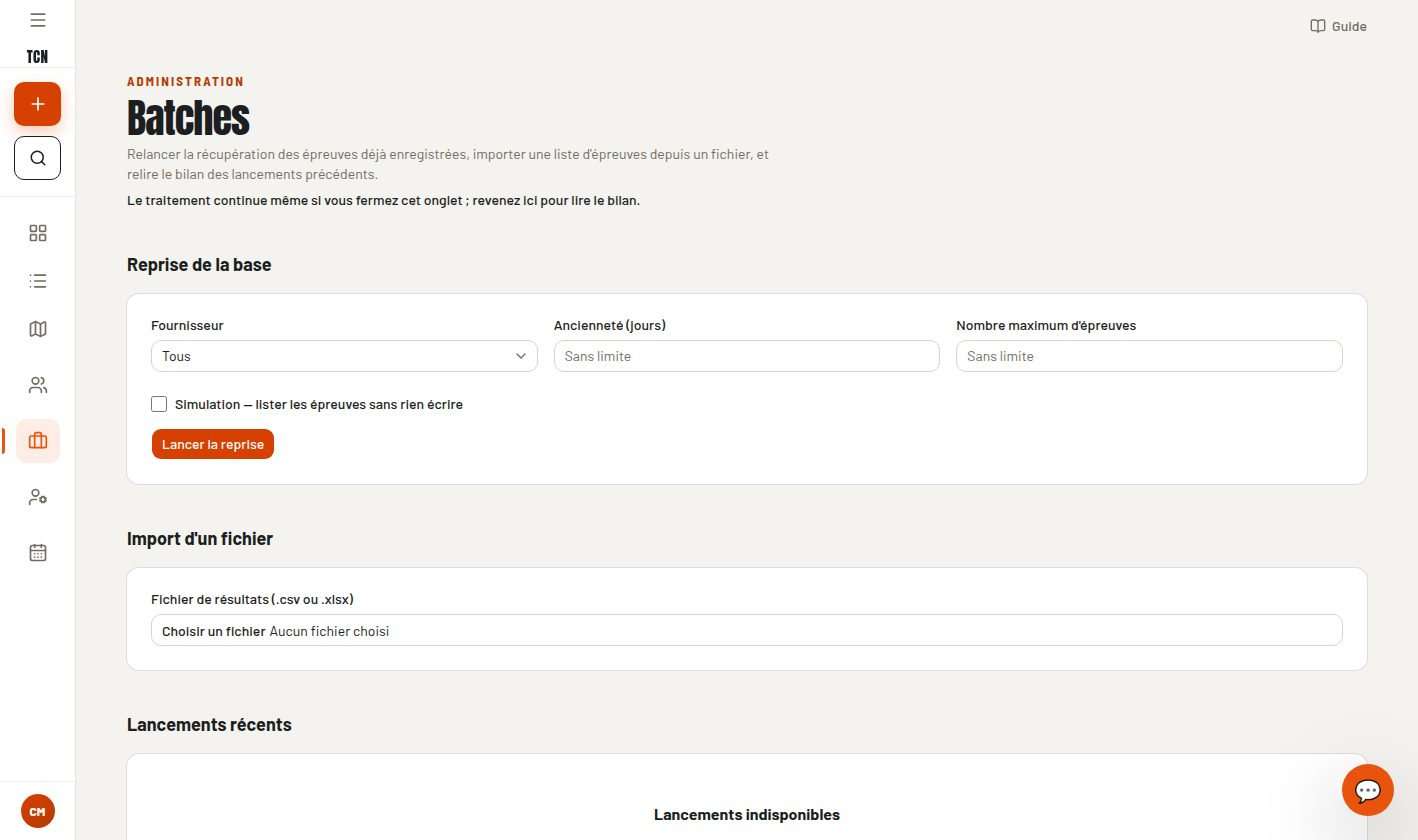
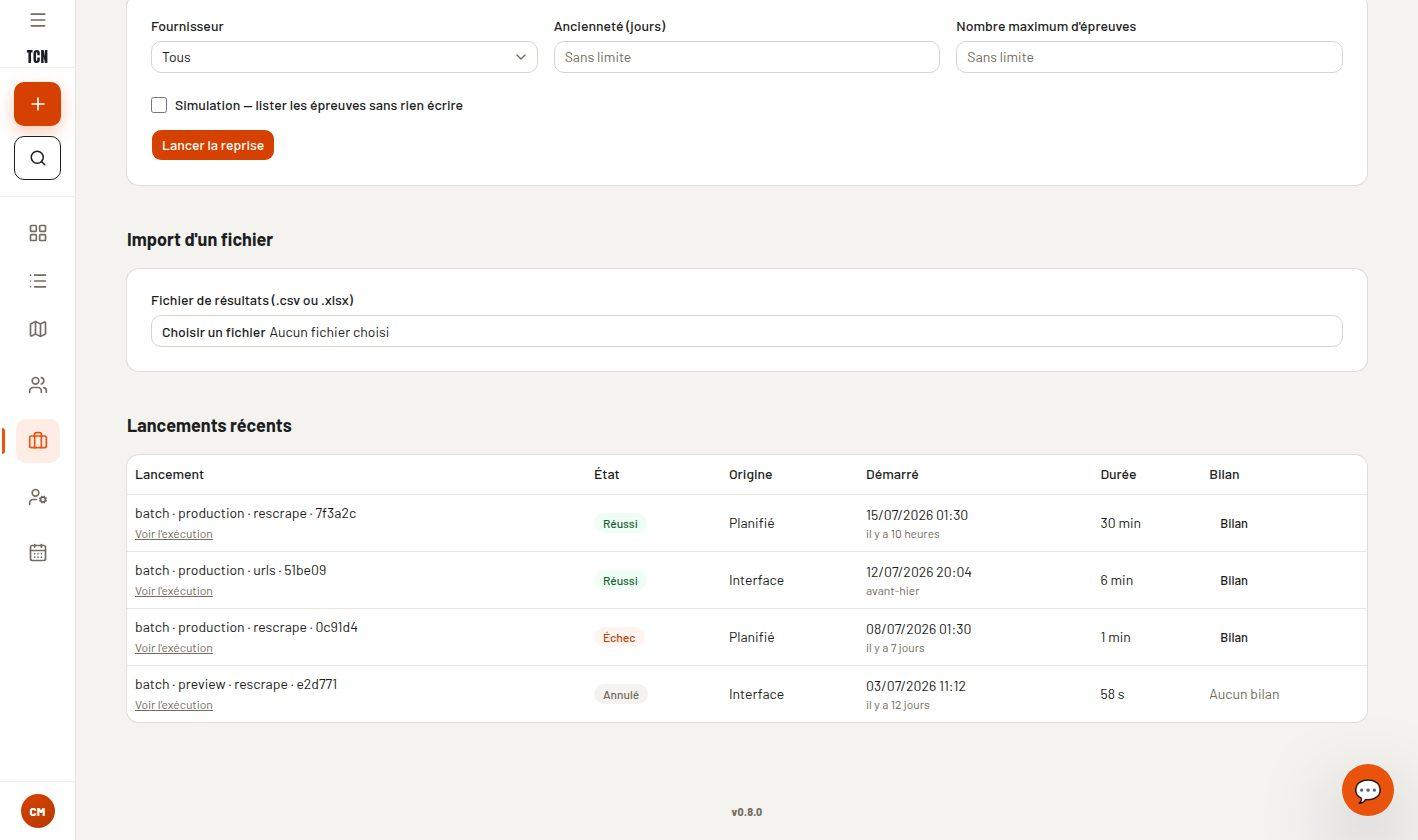
fix(frontend): address the UI/UX review of the guide
- Each capture links to its full-resolution file (« Agrandir la capture »): a desktop capture is unreadable at phone width. next/image gets a sizes hint.
- Captures retaken: batches with fictitious recent runs, the athlete page with a drawn progression, « Bénévolat » seen by a member with pages:preview only, plus a second public-page capture showing « Supprimer » and « Rattacher ».
- Texts aligned with the real labels: « Tous » / « Membres TCN », « Enregistrer les résultats », the « Mes résultats » shortcut, and the magnifier for search in the admin section.

diff --git a/frontend/components/guide/GuideSection.tsx b/frontend/components/guide/GuideSection.tsx
@@ -26,19 +26,33 @@ export function GuideSection({ section }: { section: GuideSectionData }) {
       </ol>
       <div className="space-y-3">
         {section.captures.map((capture) => (
-          <Image
+          // Une capture de bureau ramenée à la largeur d'un téléphone devient
+          // illisible (texte de ~2,5 px à 360 px) : le lien ouvre le fichier
+          // en pleine résolution.
+          <a
             key={capture.src}
-            src={capture.src}
-            alt={capture.alt}
-            // Ratio de toutes les captures (1418×840) : sans ce ratio exact,
-            // `width`/`height` imposent une boîte 1200×750 (1,6:1) que le
-            // navigateur étire, ~5,5 % de distorsion sur chaque image
-            // (revue UI/UX, #865).
-            width={1418}
-            height={840}
-            style={{ width: "100%", height: "auto", borderRadius: "var(--tcn-radius-2xl)" }}
-            className="border border-[var(--tcn-border)]"
-          />
+            href={capture.src}
+            target="_blank"
+            rel="noopener"
+            className="block space-y-1.5 rounded-[var(--tcn-radius-2xl)] focus-visible:outline-2 focus-visible:outline-offset-2 focus-visible:outline-[var(--tcn-orange)]"
+          >
+            <Image
+              src={capture.src}
+              alt={capture.alt}
+              // Ratio de toutes les captures (1418×840) : sans ce ratio exact,
+              // `width`/`height` imposent une boîte 1200×750 (1,6:1) que le
+              // navigateur étire, ~5,5 % de distorsion sur chaque image
+              // (revue UI/UX, #865).
+              width={1418}
+              height={840}
+              sizes="(min-width: 768px) 75vw, 100vw"
+              style={{ width: "100%", height: "auto", borderRadius: "var(--tcn-radius-2xl)" }}
+              className="border border-[var(--tcn-border)]"
+            />
+            <span className="block text-xs text-[var(--tcn-text-faint)] underline underline-offset-2">
+              Agrandir la capture
+            </span>
+          </a>
         ))}
       </div>
     </Card>

diff --git a/frontend/components/guide/guide-content.membre.ts b/frontend/components/guide/guide-content.membre.ts
@@ -28,7 +28,7 @@ export const GUIDE_MEMBRE: GuideSection[] = [
     casUsage: "Retrouver les épreuves du club et consulter le classement d'une épreuve précise.",
     etapes: [
       "Ouvrir « Résultats » depuis la navigation principale.",
-      "Filtrer par saison, portée (club ou toutes) ou recherche libre.",
+      "Filtrer par saison, entre « Tous » et « Membres TCN », ou par recherche libre.",
       "Sélectionner une épreuve pour en voir le classement complet.",
     ],
     captures: [{ src: "/guide/membre/resultats.jpg", alt: "Liste des résultats avec filtres" }],
@@ -41,7 +41,7 @@ export const GUIDE_MEMBRE: GuideSection[] = [
     etapes: [
       "Ouvrir la recherche d'athlète avec la loupe de la navigation, ou le raccourci ⌘K (Mac) ou Ctrl K.",
       "Taper quelques lettres du nom, puis ouvrir la fiche.",
-      "Cliquer sur « Choisir cet athlète » : ses résultats se retrouvent en un geste, et sa saison s'affiche en tête du tableau de bord.",
+      "Cliquer sur « Choisir cet athlète » : un raccourci « Mes résultats » apparaît dans la navigation et dans les filtres de « Résultats », et sa saison s'affiche en tête du tableau de bord.",
     ],
     captures: [{ src: "/guide/membre/fiche-athlete.jpg", alt: "Fiche d'un athlète avec le bouton « Choisir cet athlète »" }],
   },
@@ -63,7 +63,7 @@ export const GUIDE_MEMBRE: GuideSection[] = [
     etapes: [
       "Ouvrir « Ajouter une épreuve » depuis la navigation principale.",
       "Coller le lien de la page de résultats du chronométreur.",
-      "Vérifier le fournisseur détecté, puis lancer l'import.",
+      "Vérifier le fournisseur détecté, puis cliquer sur « Enregistrer les résultats ».",
     ],
     captures: [{ src: "/guide/membre/ajouter.jpg", alt: "Formulaire d'ajout d'une épreuve par URL" }],
   },

diff --git a/frontend/components/guide/guide-content.admin.ts b/frontend/components/guide/guide-content.admin.ts
@@ -171,11 +171,20 @@ export const GUIDE_ADMIN: GuideSection[] = [
     casUsage:
       "Certains gestes d'administration se font depuis la fiche d'un athlète, sans passer par le back-office : ils n'apparaissent qu'aux comptes qui en ont le pouvoir.",
     etapes: [
-      "Ouvrir la fiche de l'athlète, par la recherche (⌘K ou Ctrl K) ou depuis un classement.",
+      "Ouvrir la fiche de l'athlète avec la loupe de la navigation (ou ⌘K, Ctrl K), ou depuis un classement.",
       "« Corriger la fiche » : modifier le nom, le prénom, la date de naissance ou le club actuel. Un club corrigé à la main n'est plus réécrit par les imports suivants.",
       "« Valider la saison » : choisir la saison, lire le décompte des épreuves et du bénévolat affiché dessous, puis valider. Une saison déjà validée propose « Dévalider la saison ».",
       "Dans la liste de ses épreuves, « Rattacher » déplace un résultat vers la bonne fiche, « Supprimer » le retire, et « Attribuer aux équipiers » répartit un résultat de relais.",
     ],
-    captures: [{ src: "/guide/admin/pages-publiques.jpg", alt: "Fiche athlète vue par un administrateur, avec la correction de fiche et la validation de saison" }],
+    captures: [
+      {
+        src: "/guide/admin/pages-publiques.jpg",
+        alt: "Fiche athlète vue par un administrateur, avec les boutons « Corriger la fiche » et « Valider la saison »",
+      },
+      {
+        src: "/guide/admin/pages-publiques-epreuves.jpg",
+        alt: "Liste des épreuves d'un athlète vue par un administrateur, avec les boutons « Supprimer » et « Rattacher » sur chaque ligne",
+      },
+    ],
   },
 ];

diff --git a/frontend/components/guide/GuideSection.test.tsx b/frontend/components/guide/GuideSection.test.tsx
@@ -46,4 +46,11 @@ describe("GuideSection capture", () => {
     render(<GuideSection section={section} />);
     expect(screen.getByAltText("Espace club, synthèse et podiums")).toBeInTheDocument();
   });
+
+  it("links each capture to its full-resolution file, unreadable on a phone otherwise", () => {
+    render(<GuideSection section={section} />);
+    const lien = screen.getByRole("link", { name: /agrandir la capture/i });
+    expect(lien).toHaveAttribute("href", "/guide/membre/club.jpg");
+    expect(lien).toContainElement(screen.getByAltText("Espace club, synthèse et podiums"));
+  });
 });
